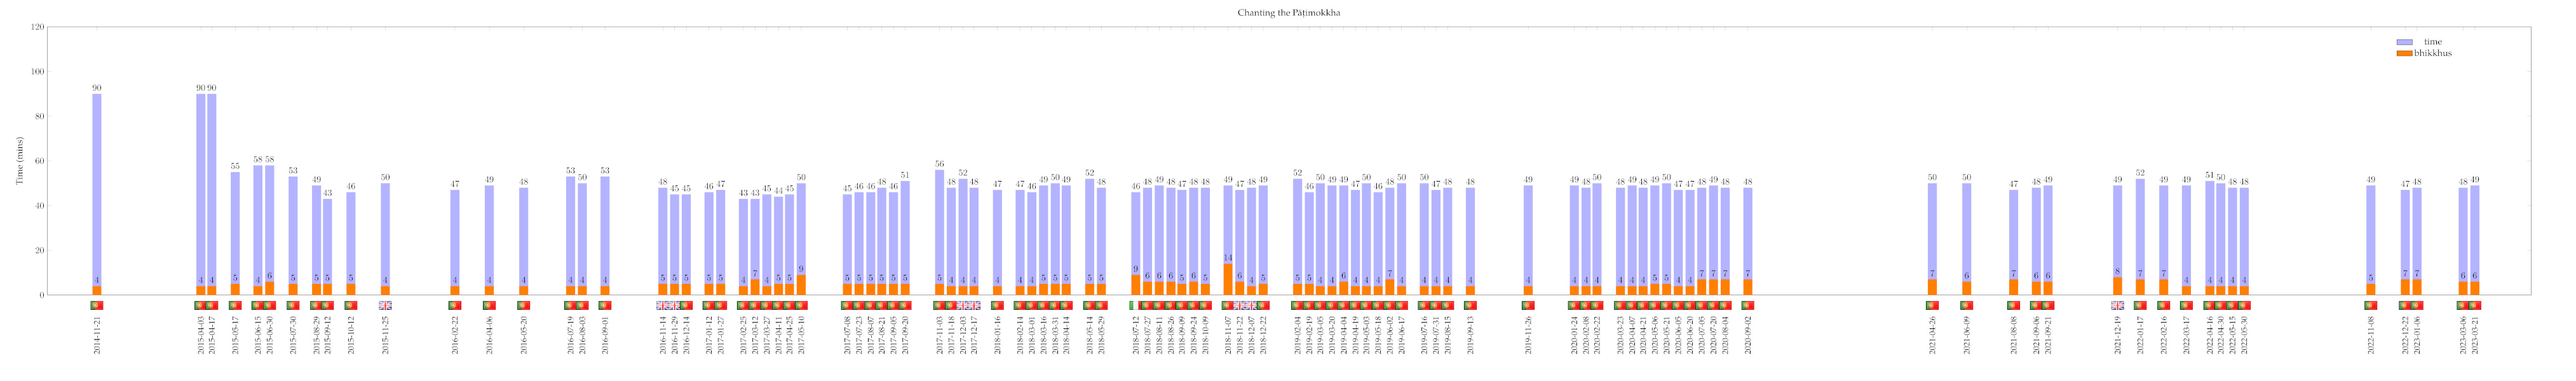
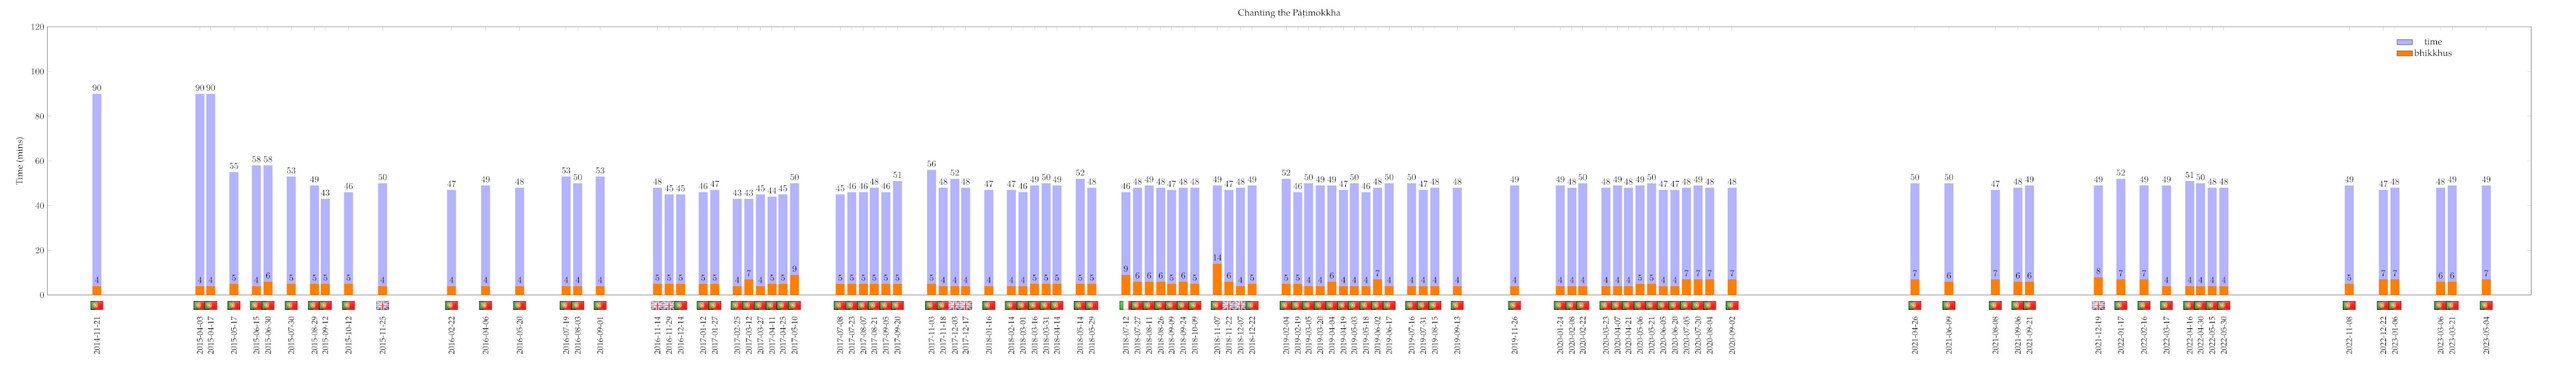
upd

Changed region(s): [[0.0622, 0.42, 0.6838, 0.93], [0.7148, 0.45, 0.8703, 0.93], [0.9013, 0.45, 0.9946, 0.93]]

diff --git a/src/patimokkha-chanting-chart.tex b/src/patimokkha-chanting-chart.tex
@@ -58,7 +58,7 @@
     ylabel=Time (mins),
     xtick=data,
     xmin=2014-11-20,
-    xmax=2023-06-01,
+    xmax=2023-07-01,
     enlarge x limits={rel=0.02,lower},
     xticklabel style={yshift=-20pt,rotate=90,anchor=east,font=\small},
     xticklabel={\year-\month-\day},
@@ -191,6 +191,7 @@
   \node [anchor=south, yshift=-20pt] at (axis cs:2023-01-06,0) {\includegraphics[width=5mm]{pt}};
   \node [anchor=south, yshift=-20pt] at (axis cs:2023-03-06,0) {\includegraphics[width=5mm]{pt}};
   \node [anchor=south, yshift=-20pt] at (axis cs:2023-03-21,0) {\includegraphics[width=5mm]{pt}};
+  \node [anchor=south, yshift=-20pt] at (axis cs:2023-05-04,0) {\includegraphics[width=5mm]{pt}};
 
 \end{axis}
 \end{tikzpicture}
